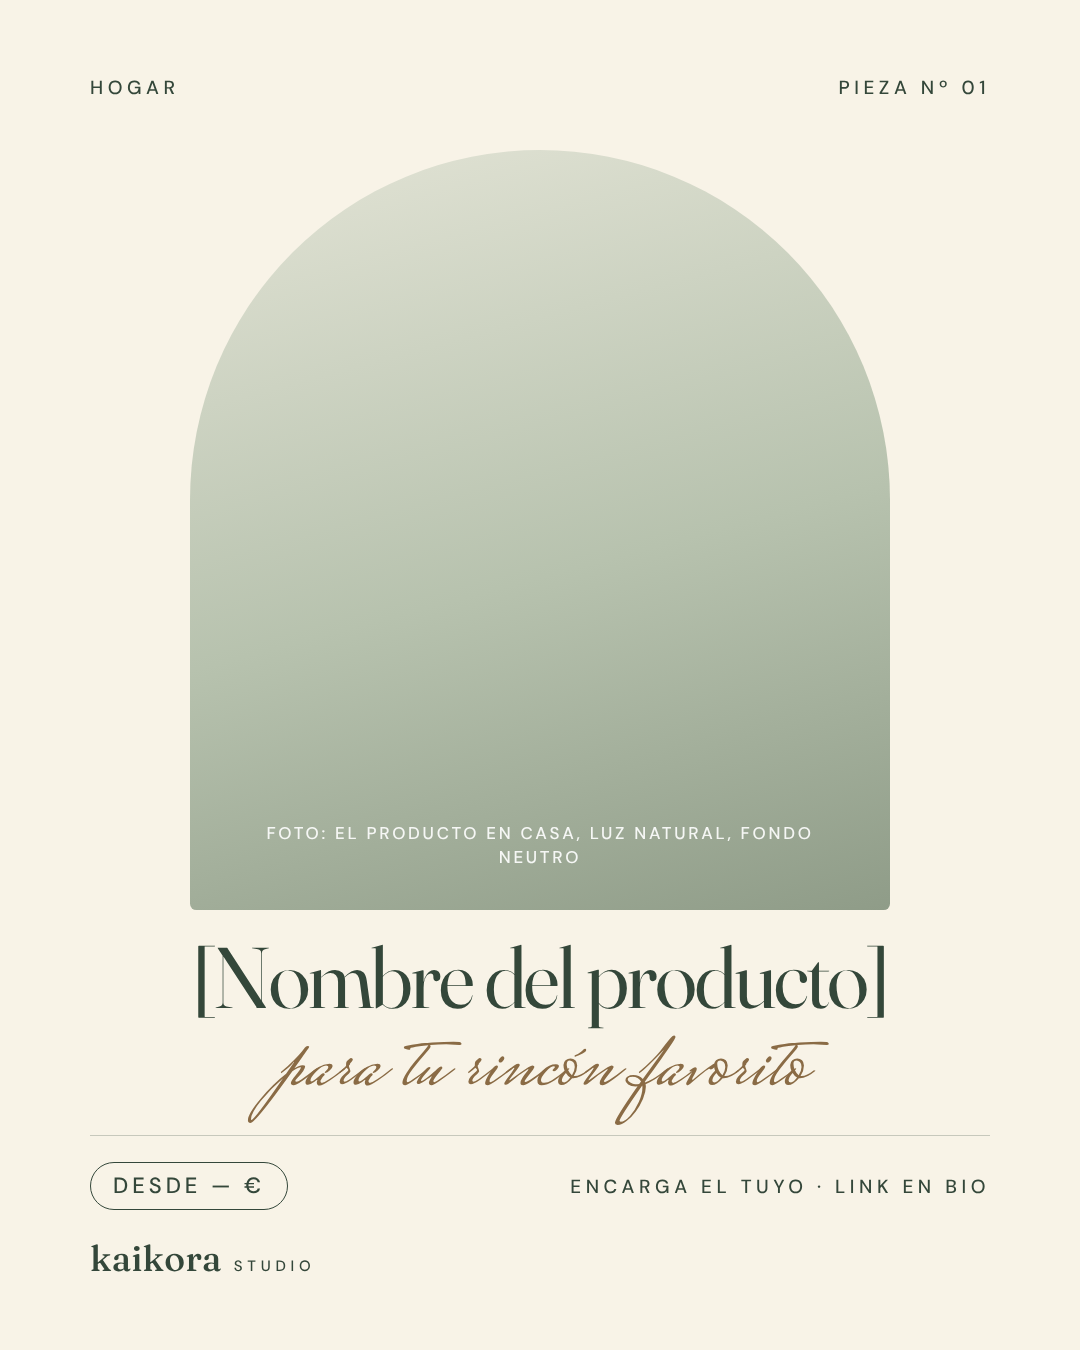
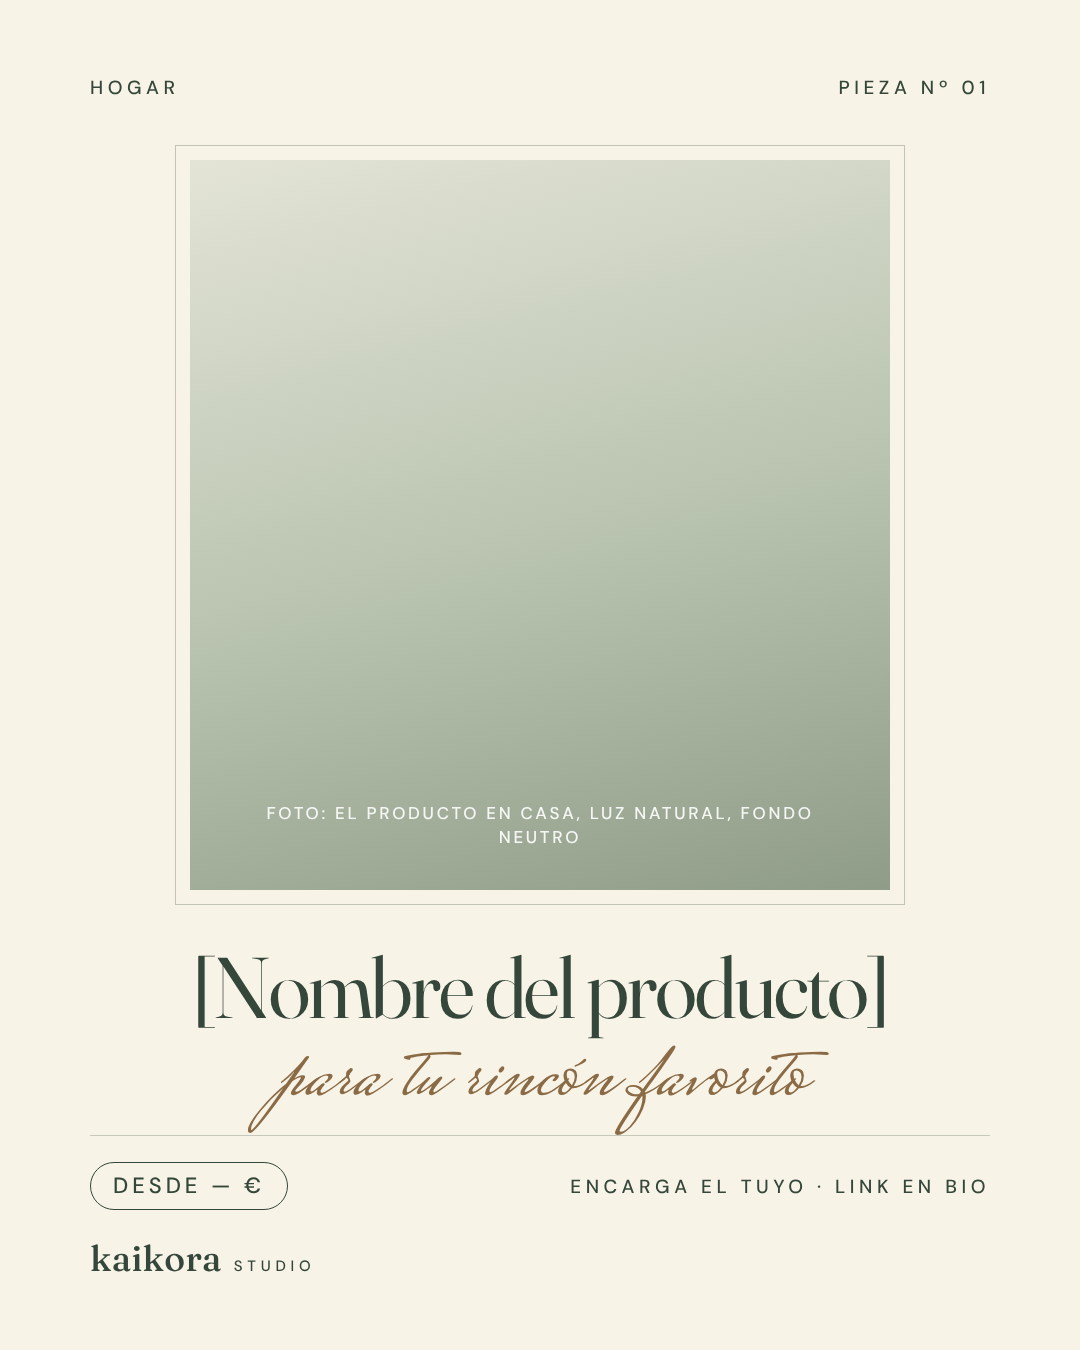
Kaikora: fotos rectas con marco fino en lugar del arco
Claude-Session: https://claude.ai/code/session_01CVQ5H1Ti7YZqaj675BUrDW

diff --git a/kaikora/redes/guia-de-estilo.md b/kaikora/redes/guia-de-estilo.md
@@ -12,7 +12,7 @@
   - **Fraunces** (serif) para los titulares, con una palabra en cursiva.
   - **DM Sans** para los textos.
   - Una **firma manuscrita** pequeña (Mrs Saint Delafield), en bronce y una sola vez por post. Nunca como titular.
-- **El arco:** el marco de las fotos de producto. Es el elemento propio de la marca.
+- **Fotos enmarcadas:** fotos rectas con un marco fino alrededor, como en una galería. Nada redondeado ni ovalado.
 - **Espacio:** deja aire. Si dudas, quita algo.
 - **Fotos:**
   - Luz natural de ventana, fondos lisos en crema, lino o madera clara.
